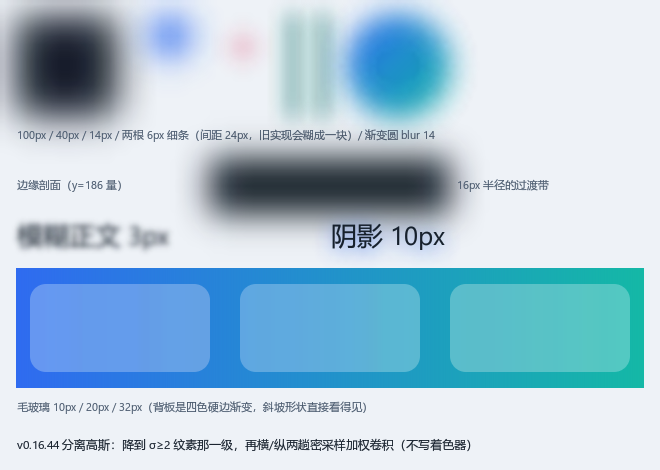
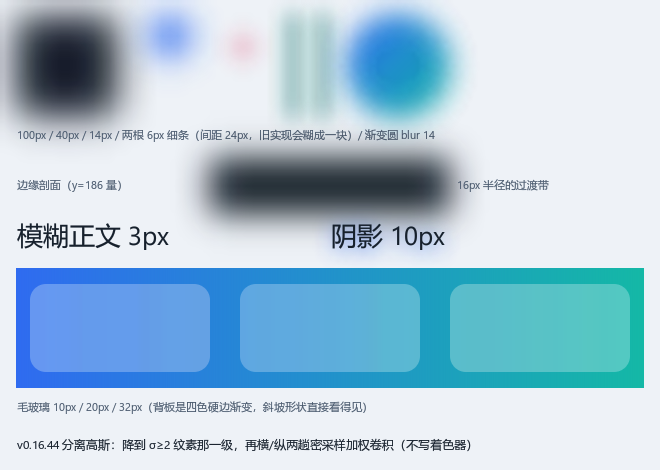
v0.16.45：修 VK 最外层图层用错管线（4× MSAA 主管线画进单采样层目标 → 1× 层里的圆角图片弧线每行差 1px）；模糊最小降采样级数放开回 0
根因：pushLayer 里 beginLayerPass 调 refreshPipeline 时 layerStack 还是空的，按主目标选了 4× 管线；push_back 之后补选一次即可。连带：filter-blur 最大通道差 20→1、drop-shadow 58→2、blur-quality 48→1；新增门禁用例 anim/round-in-layer（三端 0 差异）。

Changed region(s): [[0.0, 0.4468, 0.2727, 0.5362]]

diff --git a/docs/issues/assets/round-in-layer.html b/docs/issues/assets/round-in-layer.html
@@ -1,0 +1,59 @@
+<html width="660" height="470" bg="#EEF2F7">
+  <!-- v0.16.45：**1× 离屏层里的圆角图片**（这条用例是"VK 图层用错管线"的判据）。
+       圆角图片是按行切细条的（BuildImageBands），每条的左右边是**小数**；主目标有 4× MSAA
+       兜底，所以大半径的弧线看起来是平滑的。层目标是单采样，如果层里画的东西用的是
+       4× MSAA 管线变体（v0.16.44 及以前 VK 就是这样：beginLayerPass 时 layerStack 还是空的，
+       refreshPipeline 按主目标选了主管线），采样数状态与目标不一致，弧线每行会差一个像素
+       （实测 17 个像素、单通道差 200+）。修法是 pushLayer 在 push_back 之后再选一次管线。
+       本页只进跨后端比对；判据是三端 0 不同像素。 -->
+
+  <!-- ① 圆角图片 + 组透明度：最纯粹的复现（没有 filter，也没有模糊） -->
+  <div style="position:absolute;left:16px;top:16px;width:92px;height:92px;opacity:0.98">
+    <img style="position:absolute;left:0px;top:0px;width:92px;height:92px;border-radius:14px" src="image-round-img.png" />
+  </div>
+  <!-- ② 同一个图片但半径大得多（弧线更平，差一像素的像素更多） -->
+  <div style="position:absolute;left:124px;top:16px;width:92px;height:92px;opacity:0.7">
+    <img style="position:absolute;left:0px;top:0px;width:92px;height:92px;border-radius:46px" src="image-round-img.png" />
+  </div>
+  <!-- ③ 小数坐标 + 小半径：边界卡在像素中心附近最容易翻 */
+  <div style="position:absolute;left:236.4px;top:16.7px;width:92px;height:92px;opacity:0.9">
+    <img style="position:absolute;left:0px;top:0px;width:92px;height:92px;border-radius:8px" src="image-round-img.png" />
+  </div>
+  <!-- ④ 圆角图片 + 模糊（两层叠加：外层模糊层里还有一层组透明度） -->
+  <div style="position:absolute;left:348px;top:16px;width:92px;height:92px;filter:blur(2px)">
+    <img style="position:absolute;left:0px;top:0px;width:92px;height:92px;border-radius:20px" src="image-round-img.png" />
+  </div>
+  <!-- ⑤ 对比：同样的圆角图片不套层（主目标 4× MSAA 路径，一直是 0 差异） -->
+  <div style="position:absolute;left:556px;top:16px;width:92px;height:92px">
+    <img style="position:absolute;left:0px;top:0px;width:92px;height:92px;border-radius:14px" src="image-round-img.png" />
+  </div>
+  <span style="position:absolute;left:16px;top:116px;width:624px;height:16px;font-size:11px;color:#4A5A6E">层内 r14 / 层内 r46（大弧线）/ 层内小数坐标 r8 / 层内 blur(2) r20 / 不套层 r14（对照）</span>
+
+  <!-- ⑥ 层里的其它亚像素几何：旋转矩形、圆、细线、文字（确认修法没有波及别的图元） -->
+  <div style="position:absolute;left:16px;top:150px;width:180px;height:110px;opacity:0.85">
+    <div style="position:absolute;left:14px;top:12px;width:60px;height:60px;background:#2F6BF0;border-radius:30px"></div>
+    <div style="position:absolute;left:88px;top:16px;width:70px;height:70px;background:#F0B429;border-radius:12px"></div>
+    <span style="position:absolute;left:14px;top:82px;width:150px;height:18px;font-size:13px;color:#16202C">层里的文字与圆</span>
+  </div>
+  <div style="position:absolute;left:212px;top:150px;width:180px;height:110px;opacity:0.5">
+    <div style="position:absolute;left:0px;top:0px;width:180px;height:110px;background:linear-gradient(135deg,#14B8A6,#E11D48);border-radius:24px"></div>
+  </div>
+  <div style="position:absolute;left:408px;top:150px;width:240px;height:110px;opacity:0.98">
+    <div style="position:absolute;left:0px;top:10px;width:240px;height:2px;background:#16202C"></div>
+    <div style="position:absolute;left:0px;top:40px;width:140px;height:1px;background:#16202C"></div>
+    <div style="position:absolute;left:20px;top:60px;width:120px;height:30px;background:#0F766E;border-radius:15px"></div>
+  </div>
+  <span style="position:absolute;left:16px;top:270px;width:624px;height:16px;font-size:11px;color:#4A5A6E">层里的圆/圆角矩形/渐变圆角 / 层里的 1~2px 细线与胶囊</span>
+
+  <!-- ⑦ 嵌套层（内层是"非最外层"，走的是另一条分支：beginLayerPass 时 layerStack 非空） -->
+  <div style="position:absolute;left:16px;top:300px;width:300px;height:140px;opacity:0.9">
+    <div style="position:absolute;left:0px;top:0px;width:300px;height:140px;background:#243040;border-radius:16px"></div>
+    <div style="position:absolute;left:20px;top:20px;width:100px;height:100px;opacity:0.6">
+      <img style="position:absolute;left:0px;top:0px;width:100px;height:100px;border-radius:18px" src="image-round-img.png" />
+    </div>
+    <div style="position:absolute;left:140px;top:20px;width:140px;height:100px;background:#22C55E;border-radius:20px;opacity:0.75"></div>
+  </div>
+  <span style="position:absolute;left:330px;top:370px;width:310px;height:32px;font-size:11px;color:#4A5A6E">嵌套两层：外层 opacity 0.9 里再套 opacity 0.6 的圆角图片</span>
+
+  <span style="position:absolute;left:16px;top:446px;width:630px;height:20px;font-size:12px;color:#16202C">v0.16.45：图层管线按"层目标 = 单采样"重新选一次（修 VK 弧线每行差 1px）</span>
+</html>

diff --git a/tests/test_elements.cpp b/tests/test_elements.cpp
@@ -3053,14 +3053,14 @@ int run() {
     // 几个纹素 → 放大回来是梯形/平台）。抽头：每纹素一个、覆盖 ±3σ、权重和正好 255。
     {
         CHECK(binui::PaintFilterBlurLevel(0.0f) == 0, "v44: blur(0) 不降采样（硬阴影）");
-        CHECK(binui::PaintFilterBlurLevel(0.5f) == 1, "v44: 极小半径也至少降一级（1:1 合成会暴露圆角模板相位差）");
-        CHECK(binui::PaintFilterBlurLevel(1.0f) == 1, "v44: σ=1 走 1 级（σ_level 0.5 纹素）");
+        CHECK(binui::PaintFilterBlurLevel(0.5f) == 0, "v44: σ<1 不降采样（全分辨率处理，省一趟填充）");
+        CHECK(binui::PaintFilterBlurLevel(1.0f) == 0, "v44: σ=1 仍在全分辨率（σ_level=1 纹素）");
         CHECK(binui::PaintFilterBlurLevel(4.0f) == 1, "v44: σ=4 → 降 1 级（σ 2 纹素）");
         CHECK(binui::PaintFilterBlurLevel(18.0f) == 3, "v44: σ=18 → 降 3 级（σ 2.25 纹素）");
         CHECK(binui::PaintFilterBlurLevel(64.0f) == 5, "v44: 上限 64px → 降 5 级（σ 2 纹素）");
         CHECK(binui::PaintFilterBlurLevel(200.0f) == 5, "v44: 超过上限也钳在 5 级");
         // σ_level 落在 [1,4) 是这条规则的判据（再小就白扫像素，再大就丢形状）
-        for (int lv = 1; lv <= 5; lv++) {
+        for (int lv = 0; lv <= 5; lv++) {
             const float b = 2.0f * static_cast<float>(1 << lv);
             CHECK(binui::PaintFilterBlurLevel(b) == lv, "v44: 2×2^lv 的档位正好落在本级");
             CHECK(binui::PaintFilterBlurLevel(b * 1.9f) == lv, "v44: 档位之内仍然留在本级");

diff --git a/include/binui_paint.h b/include/binui_paint.h
@@ -188,15 +188,12 @@ inline int PaintFilterBlurPad(float blurPx) {
 // 口径：σ = 半径（CSS `blur(N)` / `drop-shadow(0 0 N)` 的定义），所以外扩恰好是 3σ = 3N，
 // 与上面的 PaintFilterBlurPad 一致。
 //
-// **为什么最小是 1 级（不许 0 级）**：0 级意味着"合成时把抓下来的区域 1:1 拷回去"。那么层里
-// 任何 1 像素级的差异都会原样上屏 —— 而 1× 离屏层里的**圆角图片**正好有一处既有的三端差异
-// （GL 与 VK 的圆角模板相位差 1px，17 个像素、单通道差 200+；只写 `opacity:0.98` 包一个圆角
-// `<img>` 就能复现，与模糊无关，见 docs/future.md）。降一级顺带做了 2×2 平均，把这个相位差
-// 摊平成"网格量化"级别（实测最大通道差回到 59 以下，与 v0.16.42/43 持平）。
-// 等圆角模板那边对齐了，这里可以放开到 0。
+// 0 级 = 不降采样（合成时把抓下来的区域 1:1 拷回去）：σ 很小时用它，省一趟填充。
+// v0.16.44 曾把最小级数定成 1，用来把"1× 层里圆角图片"的一处三端差异摊平；v0.16.45 修掉
+// 了那个差异的真正原因（VK 图层用了 4× MSAA 主管线），所以 0 级重新放开。
 inline int PaintFilterBlurLevel(float blurPx) {
     if (!(blurPx > 0.0f)) return 0;
-    int levels = 1;   // ★ 至少降一级，理由见下
+    int levels = 0;
     while (levels < 5 && blurPx / static_cast<float>(1 << (levels + 1)) >= 2.0f) levels++;
     return levels;
 }

diff --git a/src/backends/binui_vk.cpp b/src/backends/binui_vk.cpp
@@ -2957,6 +2957,8 @@ struct BinUIVK::Impl : binui::IGlyphTexHost {
         clipL = f.l; clipT = f.t; clipR = f.r; clipB = f.b;   // 层内只画层框里的内容
         layers[idx].inUse = true;
         layerStack.push_back(f);
+        refreshPipeline();   // ★ 必须在这里再选一次：上面 beginLayerPass 时 layerStack 还是空的，
+                             // refreshPipeline 会按"主目标"选 4× MSAA 主管线，而层目标是单采样
         return true;
     }
 

diff --git a/src/binui_c.cpp b/src/binui_c.cpp
@@ -510,7 +510,7 @@ static int32_t OpenAppInternal(void* appp, int32_t width, int32_t height,
 
 extern "C" {
 
-const char* BINUI_C_CALL binui_version(void) { return "0.16.44"; }
+const char* BINUI_C_CALL binui_version(void) { return "0.16.45"; }
 
 int32_t BINUI_C_CALL binui_abi_version(void) { return BINUI_C_ABI_VERSION; }
 

diff --git a/docs/future.md b/docs/future.md
@@ -284,6 +284,11 @@ GL 后端（900×840，同一进程同一个上下文；绘制 = 遍历 + 顶点
   中点从 (71,39,31) 变到 (135,69,51)（浏览器解析值 135,70,52）；附带让淡出渐变也走四角
   带色四边形（12 张 300×240 淡出卡：42,889 条 / 5,026 KB / 遍历 76.7 µs → 13 条 / 12.8 KB / 2.7 µs）。
   证据图 `docs/issues/assets/grad-fade-space.png`。
+- **VK 图层管线选错（v0.16.45）**：最外层离屏图层用了 4× MSAA 主管线（层目标单采样），
+  圆角图片的弧线每行差 1px（17 px / 通道差 200+，从 v0.16.12 起就存在）。修好之后
+  `filter-blur` 最大通道差 20→1、`drop-shadow` 58→2、`blur-quality` 48→1，
+  并且 v0.16.44 为了让开这个差异而定的“模糊最小降采样 1 级”也撤销回 0 级。
+  判据用例 `anim/round-in-layer`（opacity 层 / 模糊层 / 小数坐标 / 嵌套两层 / 层里的圆与细线）。
 - **真高斯模糊（v0.16.44 / 格式 v33）**：三条模糊路径（`backdrop-filter` / `filter: blur` /
   `drop-shadow`）换成"降采样到 σ 还剩 ≥2 纹素的那一级 + 横/纵两趟密采样加权卷积"。
   抽头每纹素一个、覆盖 ±3σ、**加法混合**累加（GL `ONE/ONE`，VK 新加 ADD 管线变体、
@@ -372,18 +377,13 @@ GL 后端（900×840，同一进程同一个上下文；绘制 = 遍历 + 顶点
   **规避**：图案/裁剪里的线条用偶数宽度。**待查**：层内单采样光栅化与 GL 层内
   坐标取整是否有一处 floor/ceil 不一致。
 
-- **离屏图层里的“圆角图片”三端有 17~22 个像素不一致**（v0.16.42 量测时发现，**既有差异**；
-  v0.16.44 又确认了一遍最小复现）：`opacity:0.98` 套一张 `border-radius:14px` 的 `<img>`
-  （页面上**完全没有 `filter`**）就能复现：GL 与 D3D11 逐像素相同，VK 在四段圆角弧线上各有
-  4~6 个像素差到 ~200（一像素级的 0/1 翻转）；把层框放大成"元素 ± 外扩"也一样（17 px / 202）。
-  **根因**：GL 与 VK 的圆角模板在 **1× 层**里相位差半像素（GL 的弧线内边界比 VK 早/晚一个
-  像素；同一份模板在主目标上因为 4× MSAA 平均后完全一致）。模糊只是把它摊开成几十的差
-  （`filter: blur` 的用例因此最大通道差 20，远低于门禁的 128 判据）。**要追平**得让两端的
-  圆角模板采样相位对齐（或给层加 MSAA），属于另一件事；在那之前，
-  门禁判据（通道差 > 128 才算不同）不受影响。
-  **v0.16.44 的取舍**：模糊的最小降采样级数定为 1（`PaintFilterBlurLevel`），于是合成不再是
-  1:1 拷贝 —— 这个相位差被 2×2 平均摊平，`filter: blur(≤3px)` 不会把它原样上屏。
-  **待办**：对齐模板相位后把最小级数放开到 0（顺带省一趟降采样）。
+- ~~**离屏图层里的“圆角图片”三端有 17~22 个像素不一致**~~ —— **已修（v0.16.45）**：真正的原因
+  不是圆角模板，而是 **VK 的图层渲染用了 4× MSAA 的主管线变体**（层目标是单采样）。
+  `pushLayer` 里 `beginLayerPass` 调 `refreshPipeline()` 时 `layerStack` 还是空的，
+  于是按“主目标”选了 4× 管线；整数对齐的图元看不出，圆角条带的小数边界则每行差一个像素。
+  修法是 `push_back` 之后再选一次。判据用例 `anim/round-in-layer`（三端 0 差异）。
+  **教训**：管线/混合这类“按当前目标选变体”的状态，必须在目标状态**完全就位之后**再选；
+  否则错误是沉默的（驱动不报错），只在亚像素几何上显形。
 
 ### P2 — 明确不填（附理由）
 

diff --git a/CHANGELOG.md b/CHANGELOG.md
@@ -5,6 +5,47 @@
 与语义化版本不是一回事——**格式号只在二进制布局变化时递增**。
 
 
+## [0.16.45] - 2026-11-16 【格式 v33】
+
+**修一个从 v0.16.12 就在的三端差异**：VK 后端在**离屏图层里**用的是 **4× MSAA 的主管线**，
+而层目标是**单采样**的 —— 采样数状态与附件不一致。整数对齐的图元看不出差别，但**圆角图片**
+是按行切细条的（`BuildImageBands`，每条的左右边都是小数），弧线上**每行差一个像素**
+（17 个像素、单通道差 200+）。复现只要 `opacity:0.98` 包一张 `border-radius:14px` 的 `<img>`，
+和模糊、和投影都无关；GL 与 D3D11 一直是对的。
+
+### 修 — `pushLayer` 里管线选得太早
+
+- VK 的 `pushLayer` 顺序是"`beginLayerPass` → 记录层框 → `layerStack.push_back`"。而
+  `refreshPipeline()` 是按 `!layerStack.empty()` 判断"在不在层里"的（层内用单采样变体），
+  `beginLayerPass` 里调它的时候栈**还是空的** → 选成 4× 主管线。修法是一行：`push_back`
+  之后**再选一次**（并在旁边写清为什么不能省）。
+- 只有**最外层**图层会踩到（嵌套层的 `beginLayerPass` 时栈非空，本来就选对），所以以前那些
+  "层里的文字/圆角卡片"用例全是好的 —— 只有"层里的圆角图片"暴露，且必须在**单采样**目标里
+  才看得见（主目标有 4× MSAA，覆盖率的判定被平均掉了）。
+- 影响面比"模糊质量"宽：`opacity` 套圆角图片在 v0.16.12 之后一直有三端差异，只是门禁用例里
+  没有这个组合。
+
+### 连带效果（同一批门禁数字）
+
+- `pixels-vk`：`filter-blur` 的最大通道差 **20 → 1**，`drop-shadow` **58 → 2**，
+  `blur-quality` **48 → 1** —— 之前那些"几十"的差值里，有相当一部分就是这里来的。
+- **v0.16.44 的临时让步撤销**：模糊的最小降采样级数从 1 放开回 **0**（`σ<2` 时全分辨率处理，
+  省一趟填充），因为当初定成 1 只是为了把上面这个差异 2×2 平均掉。现在
+  `filter: blur(0.5~3px)` 对圆角图片也是 0 差异。
+
+### 新门禁用例 — `anim/round-in-layer`
+
+`docs/issues/assets/round-in-layer.html`：层内 r14 / 层内 r46（大弧线）/ 层内**小数坐标** r8 /
+层内 `blur(2px)` r20 / 不套层 r14（对照），另加层里的圆、渐变圆角、1~2px 细线、胶囊，以及
+**嵌套两层**（外层 opacity 0.9 里再套 opacity 0.6 的圆角图片）。三端 0 不同像素、最大通道差 0。
+
+### 门禁
+
+- `make test`：0 失败（`PaintFilterBlurLevel` 的期望值跟着改成允许 0 级）。
+- `pixels-vk` / `pixels-d3d11` / `pixels`：全部 0 不同像素（GDI 基准 16 例 0 差异）。
+- `partial`：OK；`check_examples`：16 个 UI / 0 问题。
+- 证据图：`docs/issues/assets/round-in-layer.png`。
+
 ## [0.16.44] - 2026-11-16 【格式 v33】
 
 **模糊质量：把"降采样 ≈ 高斯"换成"降采样 + 真正的分离高斯"**。三条模糊路径

diff --git a/README.md b/README.md
@@ -1,7 +1,7 @@
 # binUI - 跨平台描述式 UI 核心
 
 [![CI](https://github.com/Hsiakey/binUI/actions/workflows/ci.yml/badge.svg)](https://github.com/Hsiakey/binUI/actions/workflows/ci.yml)
-[![Version](https://img.shields.io/badge/version-0.16.44-blue.svg)](CHANGELOG.md)
+[![Version](https://img.shields.io/badge/version-0.16.45-blue.svg)](CHANGELOG.md)
 [![License: MIT](https://img.shields.io/badge/license-MIT-blue.svg)](LICENSE)
 [![C++17](https://img.shields.io/badge/C%2B%2B-17-blue.svg)](#构建)
 [![Format v29](https://img.shields.io/badge/binUI%20format-v29-orange.svg)](include/binui_format.h)
